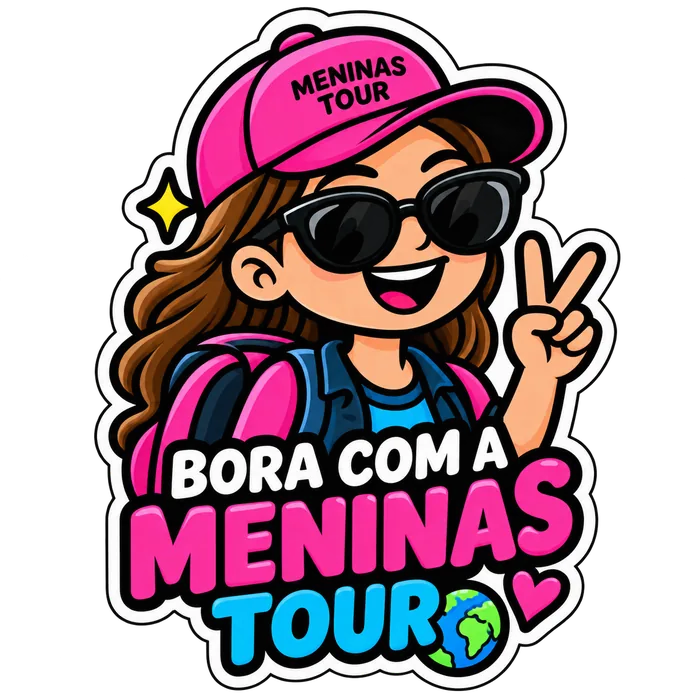
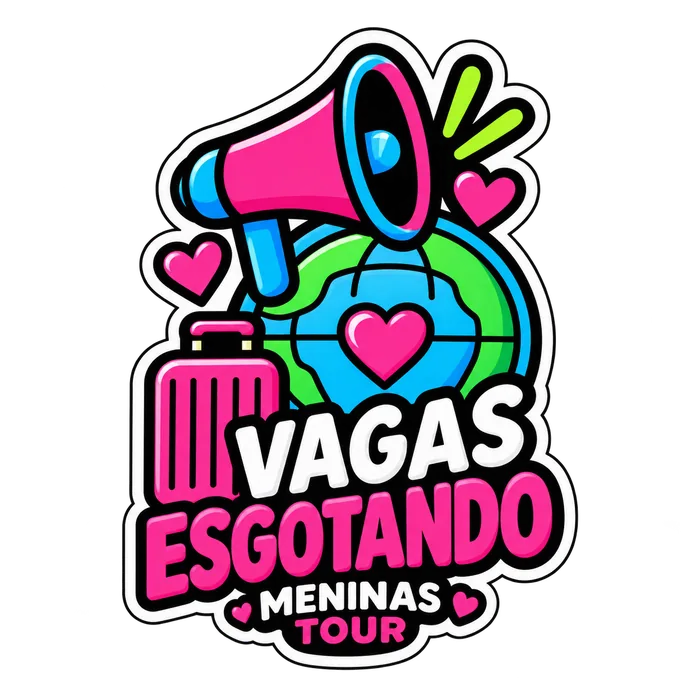
Atualiza figurinhas de exemplo: nova foto de médica, troca segurança e turismo
Adiciona foto real na categoria Médico(a) (jaleco, estetoscópio, "E
dá-lhe café"). Atualiza as figurinhas de Segurança/Vigilante ("Em QAP")
e Agência de turismo ("Vagas esgotando") com novas versões enviadas
pelo cliente. Imagens otimizadas para WebP (~95% menores que os PNGs
originais).

diff --git a/index.html b/index.html
@@ -198,14 +198,17 @@
         <h3 class="group-title">Profissão</h3>
         <div class="examples-grid">
           <figure class="example-card">
-            <div class="example-visual"><img src="/assets/images/exemplo-seguranca-vigilante.webp" alt="Figurinha personalizada de segurança/vigilante com a frase Bora trabalhar" loading="lazy" width="700" height="700"></div>
+            <div class="example-visual"><img src="/assets/images/exemplo-seguranca-vigilante.webp" alt="Figurinha personalizada de segurança/vigilante com a frase Em QAP" loading="lazy" width="700" height="700"></div>
             <figcaption><span class="example-title">Segurança / Vigilante</span></figcaption>
           </figure>
           <figure class="example-card">
             <div class="example-visual"><img src="/assets/images/exemplo-bombeiro-civil.webp" alt="Figurinha personalizada de bombeiro civil com a frase Bora trabalhar" loading="lazy" width="455" height="650"></div>
             <figcaption><span class="example-title">Bombeiro Civil</span></figcaption>
           </figure>
-          <figure class="example-card"><div class="example-visual" aria-hidden="true">🩺</div><figcaption><span class="example-title">Médico(a)</span></figcaption></figure>
+          <figure class="example-card">
+            <div class="example-visual"><img src="/assets/images/exemplo-medica.webp" alt="Figurinha personalizada de médica com jaleco e estetoscópio com a frase E dá-lhe café" loading="lazy" width="700" height="700"></div>
+            <figcaption><span class="example-title">Médico(a)</span></figcaption>
+          </figure>
           <figure class="example-card"><div class="example-visual" aria-hidden="true">🦷</div><figcaption><span class="example-title">Dentista</span></figcaption></figure>
           <figure class="example-card"><div class="example-visual" aria-hidden="true">💆</div><figcaption><span class="example-title">Esteticista</span></figcaption></figure>
           <figure class="example-card"><div class="example-visual" aria-hidden="true">🏠</div><figcaption><span class="example-title">Corretor(a)</span></figcaption></figure>
@@ -223,7 +226,7 @@
         <h3 class="group-title">Empresas</h3>
         <div class="examples-grid">
           <figure class="example-card">
-            <div class="example-visual"><img src="/assets/images/exemplo-agencia-turismo.webp" alt="Figurinha personalizada da Meninas Tour, agência de turismo, com mascote de viagem" loading="lazy" width="700" height="700"></div>
+            <div class="example-visual"><img src="/assets/images/exemplo-agencia-turismo.webp" alt="Figurinha personalizada da Meninas Tour, agência de turismo, com a frase Vagas esgotando" loading="lazy" width="700" height="700"></div>
             <figcaption><span class="example-title">Agência de turismo</span></figcaption>
           </figure>
           <figure class="example-card"><div class="example-visual" aria-hidden="true">💆</div><figcaption><span class="example-title">Clínica de estética</span></figcaption></figure>
